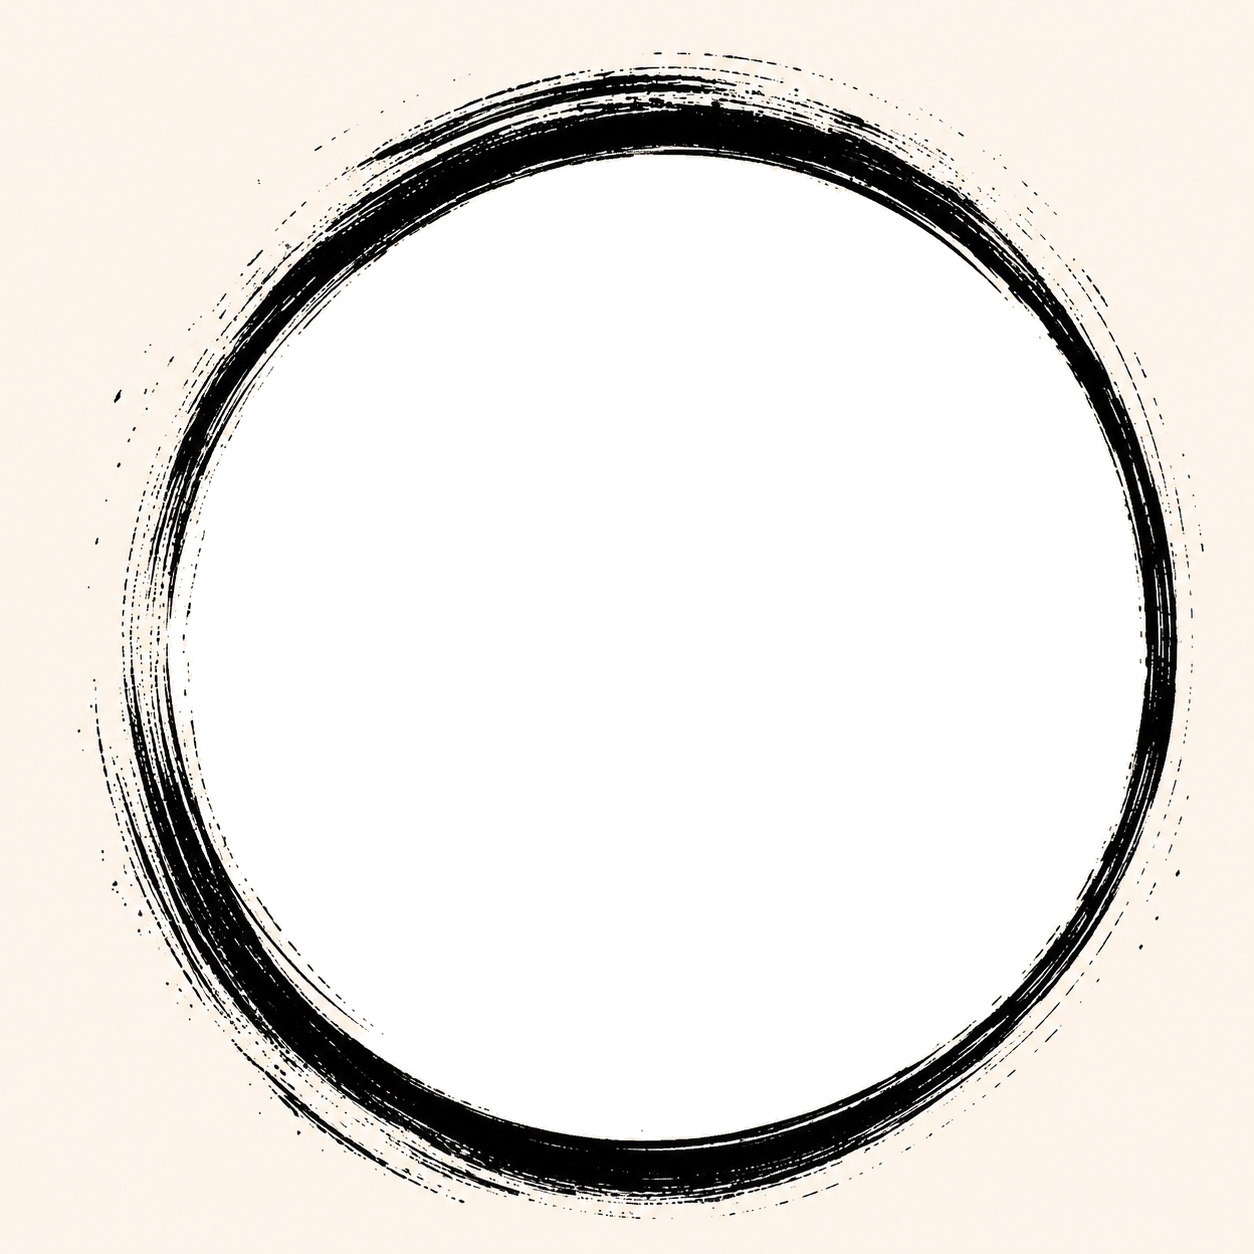
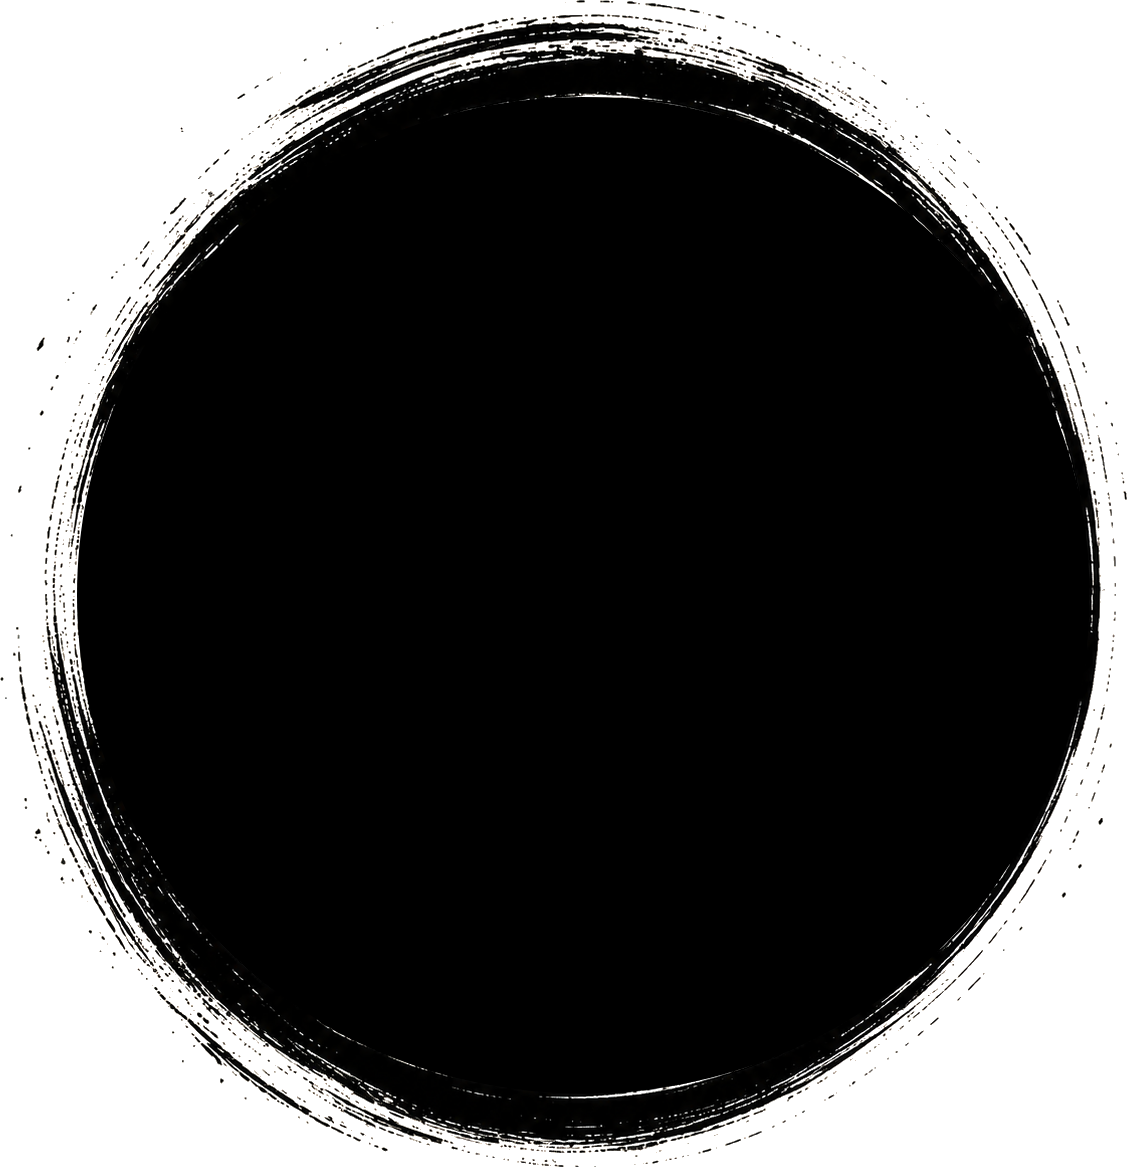
Update HeroCollage component and global styles
- Replaced RoughCircleFrame with a new TerracottaDrop icon in HeroCollage for enhanced visuals.
- Updated circle-photo class to circle-stamp with new mask properties in globals.css.
- Adjusted layout and styles in HeroCollage for better alignment and responsiveness.
- Added new brush image and removed unused paper-texture.jpg from the public/images directory.

diff --git a/components/hero-collage.tsx b/components/hero-collage.tsx
@@ -1,14 +1,16 @@
 import Image from "next/image";
-import { RoughCircleFrame } from "./icons";
+import { TerracottaDrop } from "./icons";
 
 export function HeroCollage() {
   return (
     <div className="hero-collage grid h-full min-h-0 w-full grid-cols-1 grid-rows-1">
-      <div className="terracotta parallax-med pointer-events-none col-start-1 row-start-1 ml-[6%] mt-[10%] size-[22%] rounded-full bg-terracotta" />
+      <div className="terracotta parallax-med pointer-events-none col-start-1 row-start-1 ml-[6%] mt-[10%] h-[28%] w-[22%] rotate-[-18deg] text-terracotta">
+        <TerracottaDrop className="size-full" />
+      </div>
 
-      <div className="circle-stage col-start-1 row-start-1 ml-[8%] mt-[12%] aspect-square w-[min(62%,72cqh)] min-h-0">
-        <div className="grid size-full">
-          <div className="circle-photo col-start-1 row-start-1 overflow-hidden rounded-full">
+      <div className="circle-stage col-start-1 row-start-1 ml-[-25.5%] mt-[-2.5%] aspect-square w-[105.5%] min-h-0">
+        <div className="circle-stamp circle-frame grid size-full rotate-[16deg]">
+          <div className="circle-photo col-start-1 row-start-1 mt-[0.5%] ml-[6%] h-[110%] w-[110%] place-self-center overflow-hidden">
             <Image
               src="/images/hero-tattoo.jpg"
               alt="A handpoke tattoo of a botanical branch being inked onto skin"
@@ -18,11 +20,10 @@ export function HeroCollage() {
               className="circle-photo-img size-full object-cover object-[center_42%] scale-110"
             />
           </div>
-          <RoughCircleFrame className="circle-frame pointer-events-none col-start-1 row-start-1 -m-[3%] size-[106%] text-ink" />
         </div>
       </div>
 
-      <div className="parallax-slow pointer-events-none col-start-1 row-start-1 -mr-2 ml-auto h-full min-h-0 w-[34%]">
+      <div className="parallax-slow pointer-events-none col-start-1 row-start-1 mt-[50%] ml-[66%] h-[49.5%] w-[34%] min-h-0">
         <Image
           src="/images/flower.png"
           alt=""
@@ -32,8 +33,8 @@ export function HeroCollage() {
         />
       </div>
 
-      <div className="polaroid parallax-fast col-start-1 row-start-1 mr-[4%] ml-auto mt-[14%] w-[min(38%,42cqh)] max-w-[220px] min-h-0">
-        <div className="grid rotate-[5deg] drop-shadow-[0_16px_28px_rgba(40,24,10,0.18)]">
+      <div className="polaroid parallax-fast col-start-1 row-start-1 mr-[8.5%] mt-[20.5%] ml-auto w-[87.5%] max-w-[211px] min-h-0">
+        <div className="grid rotate-[19.5deg] drop-shadow-[0_16px_28px_rgba(40,24,10,0.18)]">
           <div className="col-start-1 row-start-1 px-[6%] pt-[10%] pb-[9%]">
             <Image
               src="/images/hero-landscape.jpg"
@@ -54,8 +55,8 @@ export function HeroCollage() {
         </div>
       </div>
 
-      <div className="torn-note parallax-fast col-start-1 row-start-1 mb-[4%] ml-[12%] mt-auto w-[min(52%,50cqh)] max-w-[280px] min-h-0">
-        <div className="grid -rotate-[3.5deg]">
+      <div className="torn-note parallax-fast col-start-1 row-start-1 mb-[13%] ml-[34%] mt-auto w-[34.5%] max-w-[280px] min-h-0">
+        <div className="grid rotate-[-3.5deg]">
           <Image
             src="/images/paper.png"
             alt=""
@@ -74,7 +75,7 @@ export function HeroCollage() {
               alt="Handpoke Travels stamp"
               width={1137}
               height={695}
-              className="mt-auto h-auto w-[88%]"
+              className="mt-auto h-auto w-[50.5%]"
             />
           </div>
         </div>

diff --git a/components/icons.tsx b/components/icons.tsx
@@ -107,6 +107,19 @@ export function BotanicalArt({ className }: { className?: string }) {
   );
 }
 
+export function TerracottaDrop({ className }: { className?: string }) {
+  return (
+    <svg
+      viewBox="0 0 180 220"
+      fill="currentColor"
+      aria-hidden="true"
+      className={className}
+    >
+      <path d="M108 6C148 14 172 48 174 92c3 52-18 96-54 118-34 22-82 18-108-10C-12 174-6 118 18 74 40 32 72-2 108 6Z" />
+    </svg>
+  );
+}
+
 export function RoughCircleFrame({ className }: { className?: string }) {
   return (
     <svg

diff --git a/app/globals.css b/app/globals.css
@@ -64,8 +64,15 @@ body {
   background: #1c1612;
 }
 
-.circle-photo {
-  box-shadow: inset 0 0 40px rgba(20, 12, 6, 0.28);
+.circle-stamp {
+  -webkit-mask-image: url("/images/brush.png");
+  mask-image: url("/images/brush.png");
+  -webkit-mask-size: contain;
+  mask-size: contain;
+  -webkit-mask-repeat: no-repeat;
+  mask-repeat: no-repeat;
+  -webkit-mask-position: center;
+  mask-position: center;
 }
 
 .hero-display {
